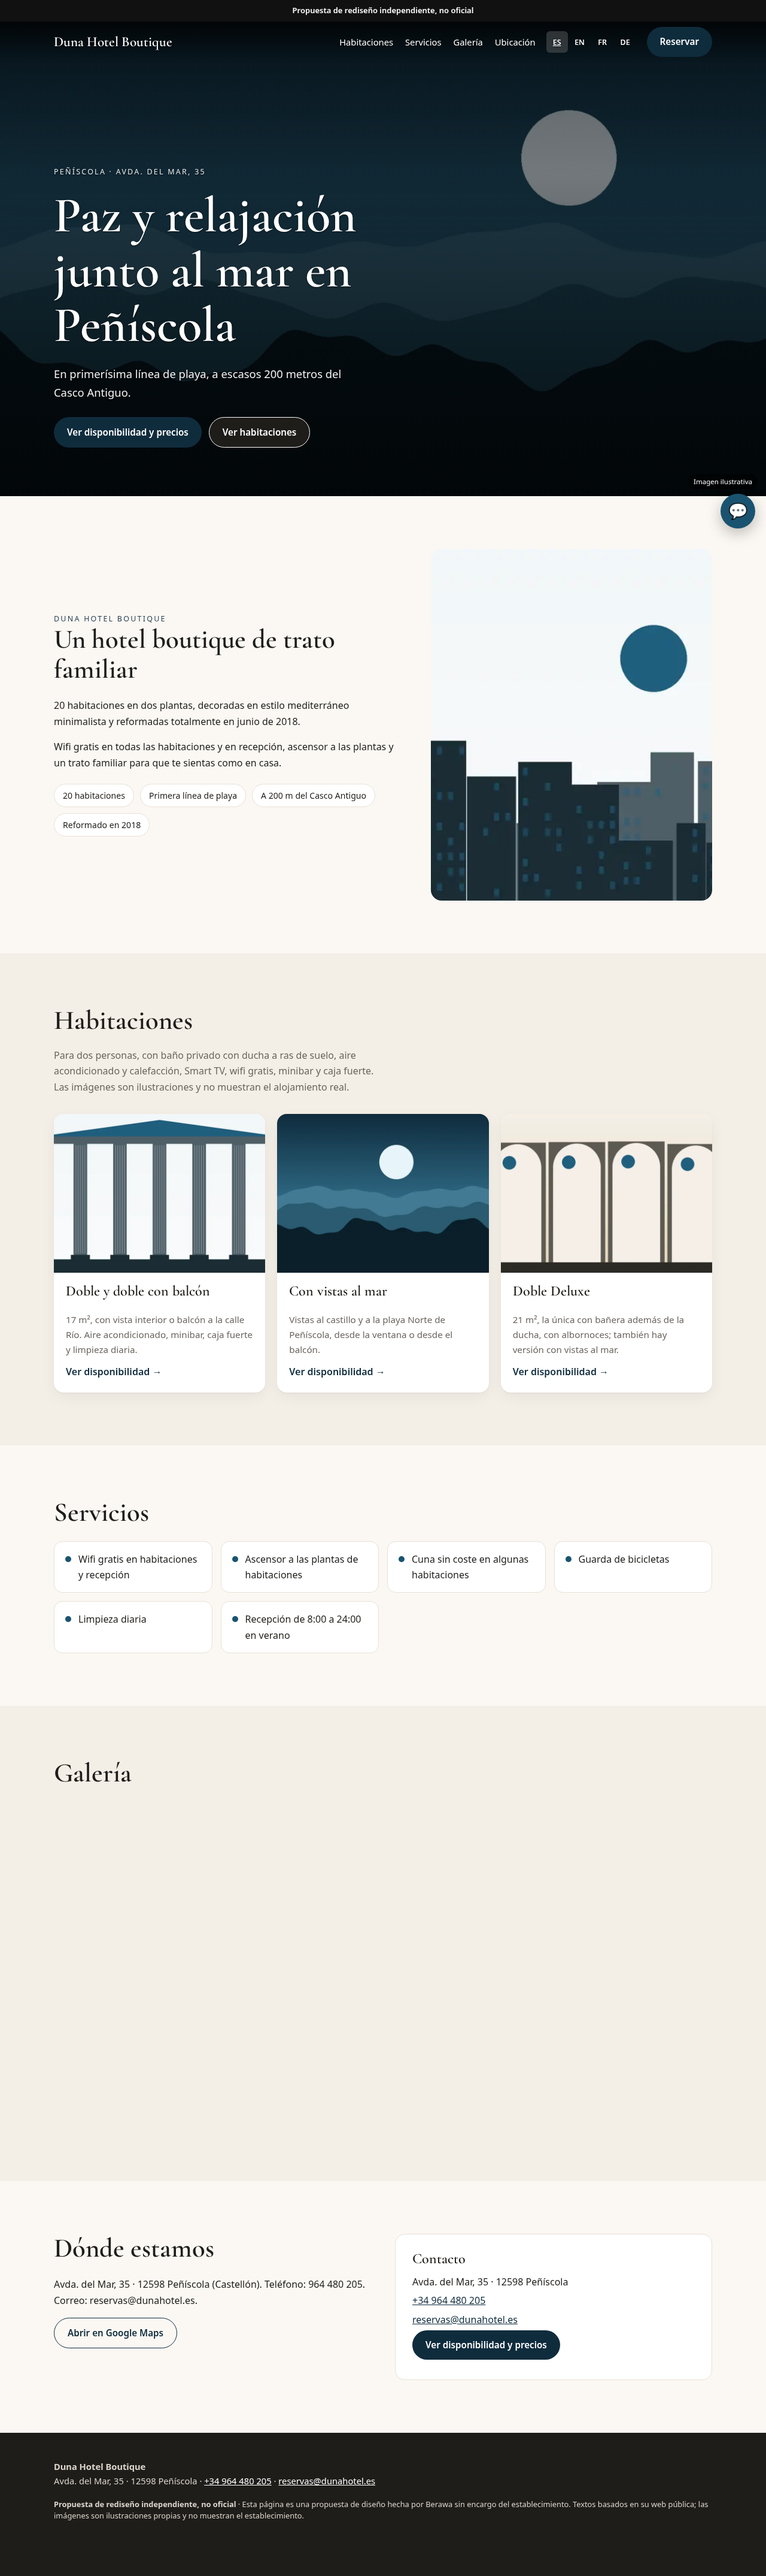
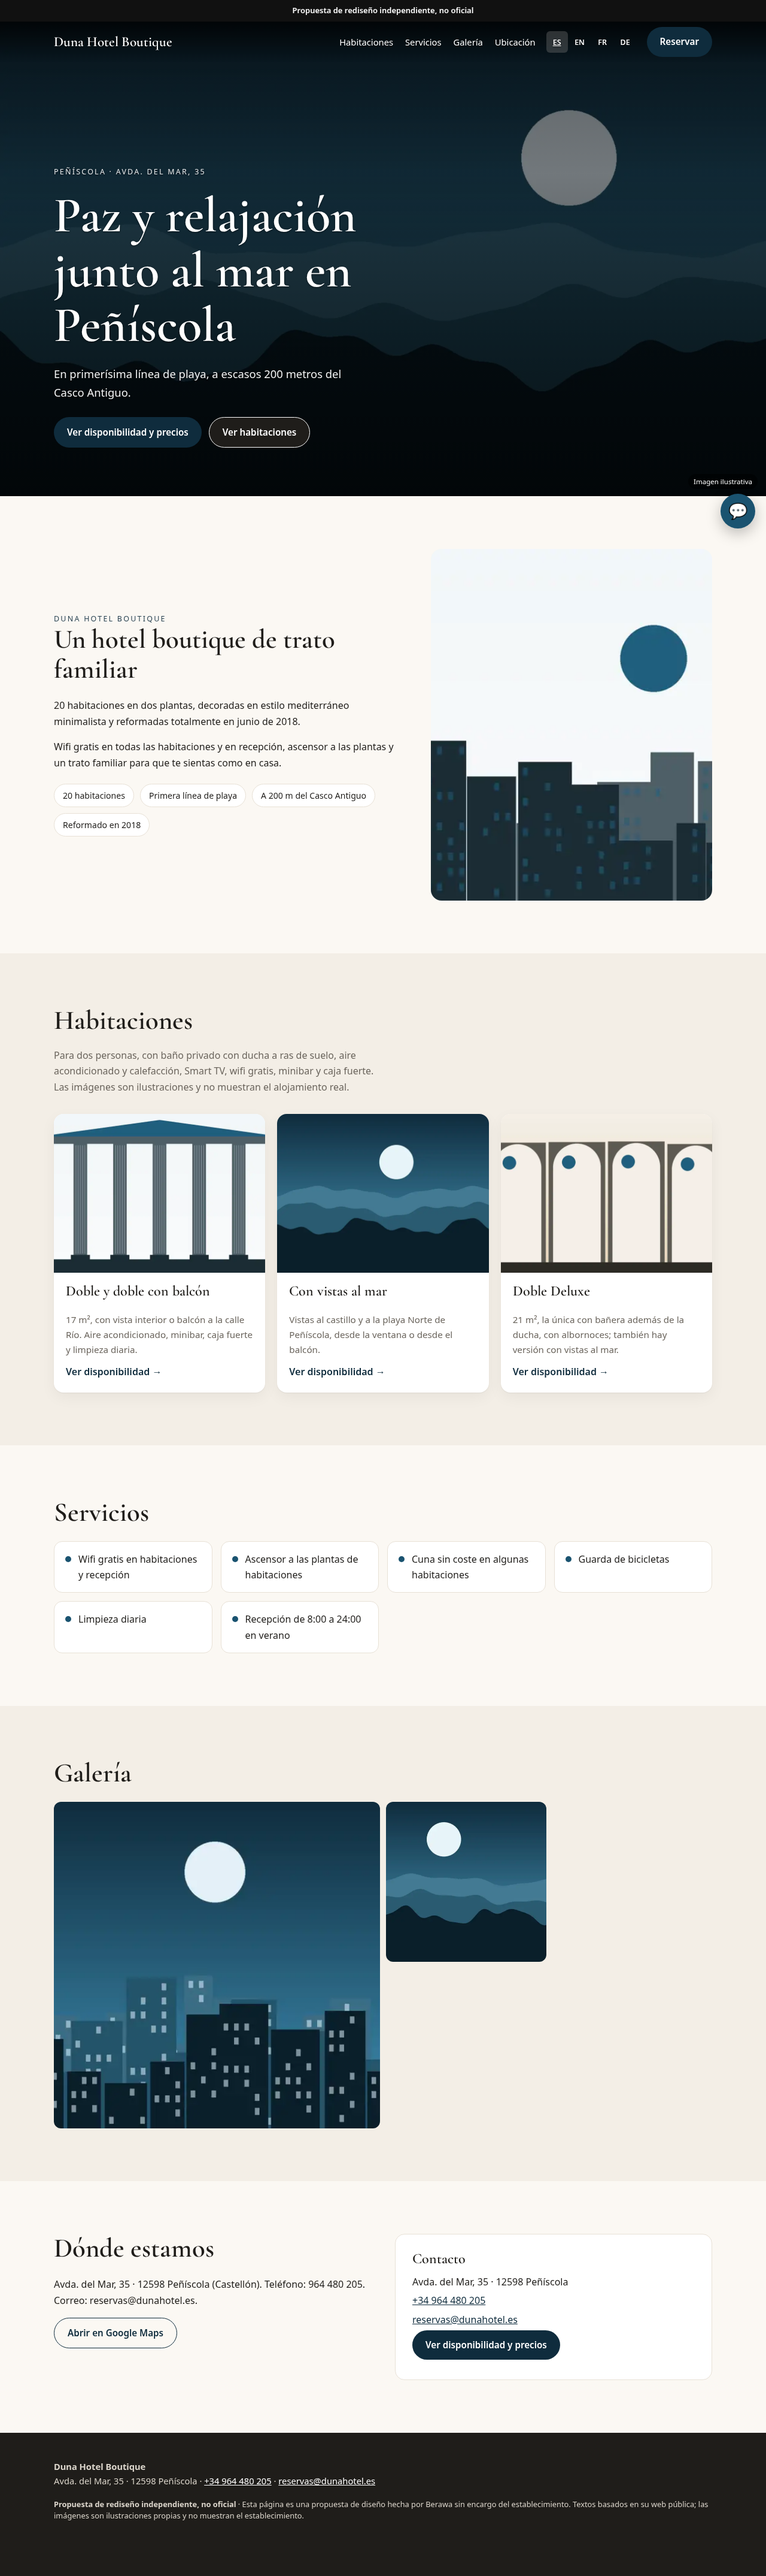
docs: informe QA Grok (A1-A11, C01-C16, Lighthouse) y evidencias tras la correccion

Changed region(s): [[0.0625, 0.6857, 0.7188, 0.8416]]

diff --git a/berawa/QA-GROK.md b/berawa/QA-GROK.md
@@ -2,44 +2,44 @@
 
 Autocontrol de fabricación (G04, A1–A11) y checklist C01–C16 (`docs/BERAWA-QA-CHECKLIST.md`) pasados por Grok antes del PR. **No es una auditoría independiente ni una aprobación**: Codex solo audita una muestra y nada se publica ni se envía sin visto bueno de Juan.
 
-- Rama: `demo/hotel-duna-peniscola` · HEAD de las pruebas: `a7cbb5af963e69ed694bee237ced1dbd8e734eea` · fecha: 02/11/2026 11:00 (Europe/Madrid)
+- Rama: `demo/hotel-duna-peniscola` · HEAD de las pruebas: `6b75575a161565beca4a569f0da59a55ee3b15fa` · fecha: 02/11/2026 11:09 (Europe/Madrid)
 - Entorno: Chromium de Playwright (instalado por `playwright install chromium` en el clon limpio), axe-core 4.14.0, Lighthouse 13.6.0 (3 pasadas, mediana).
-- Resultado: **QA_GROK_FAIL**
+- Resultado: **QA_GROK_PASS**
 - Negocio medido: Maps 4.3 (LEIDA, coincide tel, web) · web original: LCP > 4 s · titular HOSTELERA DE PEÑÍSCOLA SL (persona jurídica, sin cadena).
 
 ## Controles A1–A11
 | Nº | Control | Resultado | Evidencia |
 |---|---|---|---|
-| A1 | Idiomas ES/EN/FR/DE (selector con 4 botones; ningún otro idioma) | **NO** | qa/chat-i18n.json, qa/file-chat-i18n.json (data-t = traducción; alemán completo; sin restos de otros idiomas; un ?lang= no previsto cae a es) |
-| A2 | Chatbot con knowledge.json (citas, cifras, 4+ preguntas por idioma, desconocida, forzar invención, reserva, claves ambiguas = 0) | **NO** | qa/check_kb.txt, qa/chat-i18n.json, keys_test en qa/run_checks-zip.txt y qa/clon-limpio.txt |
+| A1 | Idiomas ES/EN/FR/DE (selector con 4 botones; ningún otro idioma) | **CUMPLE** | qa/chat-i18n.json, qa/file-chat-i18n.json (data-t = traducción; alemán completo; sin restos de otros idiomas; un ?lang= no previsto cae a es) |
+| A2 | Chatbot con knowledge.json (citas, cifras, 4+ preguntas por idioma, desconocida, forzar invención, reserva, claves ambiguas = 0) | **CUMPLE** | qa/check_kb.txt, qa/chat-i18n.json, keys_test en qa/run_checks-zip.txt y qa/clon-limpio.txt |
 | A3 | Accesibilidad: axe sin violaciones (2 viewports × 4 idiomas × inicio/menú/chat), Lighthouse accesibilidad ≥ 95, teclado, contraste sobre foto ≥ 4,5 | **CUMPLE** | qa/axe-teclado.json, qa/contraste.json, qa/lighthouse-3pasadas.json |
 | A4 | Seguridad: sin innerHTML con datos, noopener noreferrer, sin terceros, CSP por meta probada | **CUMPLE** | qa/seguridad.json |
 | A5 | Datos con fuente y fecha; leídas todas las fichas | **CUMPLE** | berawa/sources.json, berawa/evidence/source-text.json, berawa/evidence/captacion.json |
 | A6 | Imágenes: ninguna del negocio; manifiesto con hash, origen y licencia | **CUMPLE** | berawa/asset_manifest.json (todo origin=generated + fuente OFL), LICENSES.md |
-| A7 | Entrega: ZIP determinista, descomprimido y probado por HTTP y file://, idéntico a la rama | **NO** | qa/run_checks-zip.txt, qa/zip/, resumen.json (sha256 del ZIP, 0 ficheros distintos) |
+| A7 | Entrega: ZIP determinista, descomprimido y probado por HTTP y file://, idéntico a la rama | **CUMPLE** | qa/run_checks-zip.txt, qa/zip/, resumen.json (sha256 del ZIP, 0 ficheros distintos) |
 | A8 | Trazabilidad: un commit por bloque; scripts y evidencias commiteados; cambios V1.0 aparte | **CUMPLE** | git log de la rama; berawa/V1.0-CAMBIOS.md |
 | A9 | Precios del chatbot: REGLA DE PRECIOS: CUMPLE | **CUMPLE** | qa/check_kb.txt, qa/check_kb-zip.txt |
-| A10 | Reproducibilidad: clon limpio + dependencias documentadas + run_checks --file en verde; rg /workspace vacío | **NO** | qa/clon-limpio.txt, qa/rg-workspace.txt |
+| A10 | Reproducibilidad: clon limpio + dependencias documentadas + run_checks --file en verde; rg /workspace vacío | **CUMPLE** | qa/clon-limpio.txt, qa/rg-workspace.txt |
 | A11 | git diff --check main...HEAD sin salida | **CUMPLE** | qa/git-diff-check.txt |
 
 ## Checklist C01–C16
 | Código | Control | Resultado | Evidencia |
 |---|---|---|---|
-| C01 | Repositorio y SHA | **CUMPLE** | HEAD del clon limpio = a7cbb5af963e69ed694bee237ced1dbd8e734eea (el SHA final del PR es el del commit que añade este informe) |
+| C01 | Repositorio y SHA | **CUMPLE** | HEAD del clon limpio = 6b75575a161565beca4a569f0da59a55ee3b15fa (el SHA final del PR es el del commit que añade este informe) |
 | C02 | Identidad y fuentes | **CUMPLE** | nombre, teléfono, dirección y datos comerciales con cita literal en berawa/knowledge.json; titular persona jurídica sin cadena y nota de Maps en berawa/evidence/captacion.json |
 | C03 | Licencias | **CUMPLE** | asset_manifest.json: ilustraciones propias generadas (origin=generated) y fuente Cormorant OFL; ninguna imagen, logo ni vídeo del negocio |
 | C04 | Diseño personalizado y no suplantador | **CUMPLE** | paleta e ilustraciones propias, aviso «Propuesta de rediseño independiente, no oficial» arriba y en el pie, sin logo ni marca del negocio; revisión visual de qa/capturas/ |
-| C05 | Móvil 375 px en navegador real | **NO** | qa/capturas/movil-*.png; desbordamiento horizontal 0 px; axe y teclado en 375 px |
-| C06 | Escritorio 1280 px en navegador real | **NO** | qa/capturas/escritorio-*.png; desbordamiento horizontal 0 px; axe y teclado en 1280 px |
-| C07 | Español completo, botones y chatbot | **NO** | qa/chat-i18n.json (es) |
-| C08 | Alemán completo, botones y chatbot | **NO** | qa/chat-i18n.json (de) |
-| C09 | Inglés completo, botones y chatbot | **NO** | qa/chat-i18n.json (en) |
-| C10 | Francés completo, botones y chatbot | **NO** | qa/chat-i18n.json (fr) |
-| C11 | Chatbot: conocida, sinónimo, desconocida y prohibición de inventar | **NO** | tests por idioma: preguntas conocidas con otras palabras, 2 desconocidas con respuesta «No dispongo de esa información», petición de confirmar disponibilidad (no la confirma) |
+| C05 | Móvil 375 px en navegador real | **CUMPLE** | qa/capturas/movil-*.png; desbordamiento horizontal 0 px; axe y teclado en 375 px |
+| C06 | Escritorio 1280 px en navegador real | **CUMPLE** | qa/capturas/escritorio-*.png; desbordamiento horizontal 0 px; axe y teclado en 1280 px |
+| C07 | Español completo, botones y chatbot | **CUMPLE** | qa/chat-i18n.json (es) |
+| C08 | Alemán completo, botones y chatbot | **CUMPLE** | qa/chat-i18n.json (de) |
+| C09 | Inglés completo, botones y chatbot | **CUMPLE** | qa/chat-i18n.json (en) |
+| C10 | Francés completo, botones y chatbot | **CUMPLE** | qa/chat-i18n.json (fr) |
+| C11 | Chatbot: conocida, sinónimo, desconocida y prohibición de inventar | **CUMPLE** | tests por idioma: preguntas conocidas con otras palabras, 2 desconocidas con respuesta «No dispongo de esa información», petición de confirmar disponibilidad (no la confirma) |
 | C12 | CTA con destinos reales, sin falsa reserva | **CUMPLE** | solo mailto:, tel: y enlaces a páginas de reserva del propio negocio (project.json → book); sin motor propio; sec_scan |
-| C13 | Transparencia: aviso demo no oficial y noindex | **NO** | aviso visible en los 4 idiomas, meta robots noindex,nofollow y robots.txt Disallow: / |
+| C13 | Transparencia: aviso demo no oficial y noindex | **CUMPLE** | aviso visible en los 4 idiomas, meta robots noindex,nofollow y robots.txt Disallow: / |
 | C14 | Seguridad: sin secretos, XSS ni recolección engañosa | **CUMPLE** | qa/seguridad.json; el sitio no recoge datos |
-| C15 | Entrega: ZIP, descomprimir, servir y navegar fuera de GitHub Pages | **NO** | qa/run_checks-zip.txt (HTTP y file:// sobre el ZIP descomprimido) |
+| C15 | Entrega: ZIP, descomprimir, servir y navegar fuera de GitHub Pages | **CUMPLE** | qa/run_checks-zip.txt (HTTP y file:// sobre el ZIP descomprimido) |
 | C16 | Rendimiento medido (Lighthouse 3 pasadas, mediana) | **CUMPLE** | qa/lighthouse-3pasadas.json · SEO < 90 por el `noindex,nofollow` y el `robots.txt` con `Disallow: /` (is-crawlable y robots-txt), exigidos por la V1.0; no se maquilla. |
 
 ## Lighthouse (mediana de 3 pasadas)
@@ -53,4 +53,4 @@ SEO < 90 por el `noindex,nofollow` y el `robots.txt` con `Disallow: /` (is-crawl
 ## Límites
 - No probado en Safari ni Firefox ni con lector de pantalla.
 - Las imágenes son ilustraciones propias: no muestran el establecimiento y así se rotulan.
-- Tiempo del autocontrol automático (ZIP, clon limpio, Lighthouse, capturas): 8.4 min.
+- Tiempo del autocontrol automático (ZIP, clon limpio, Lighthouse, capturas): 9.0 min.
